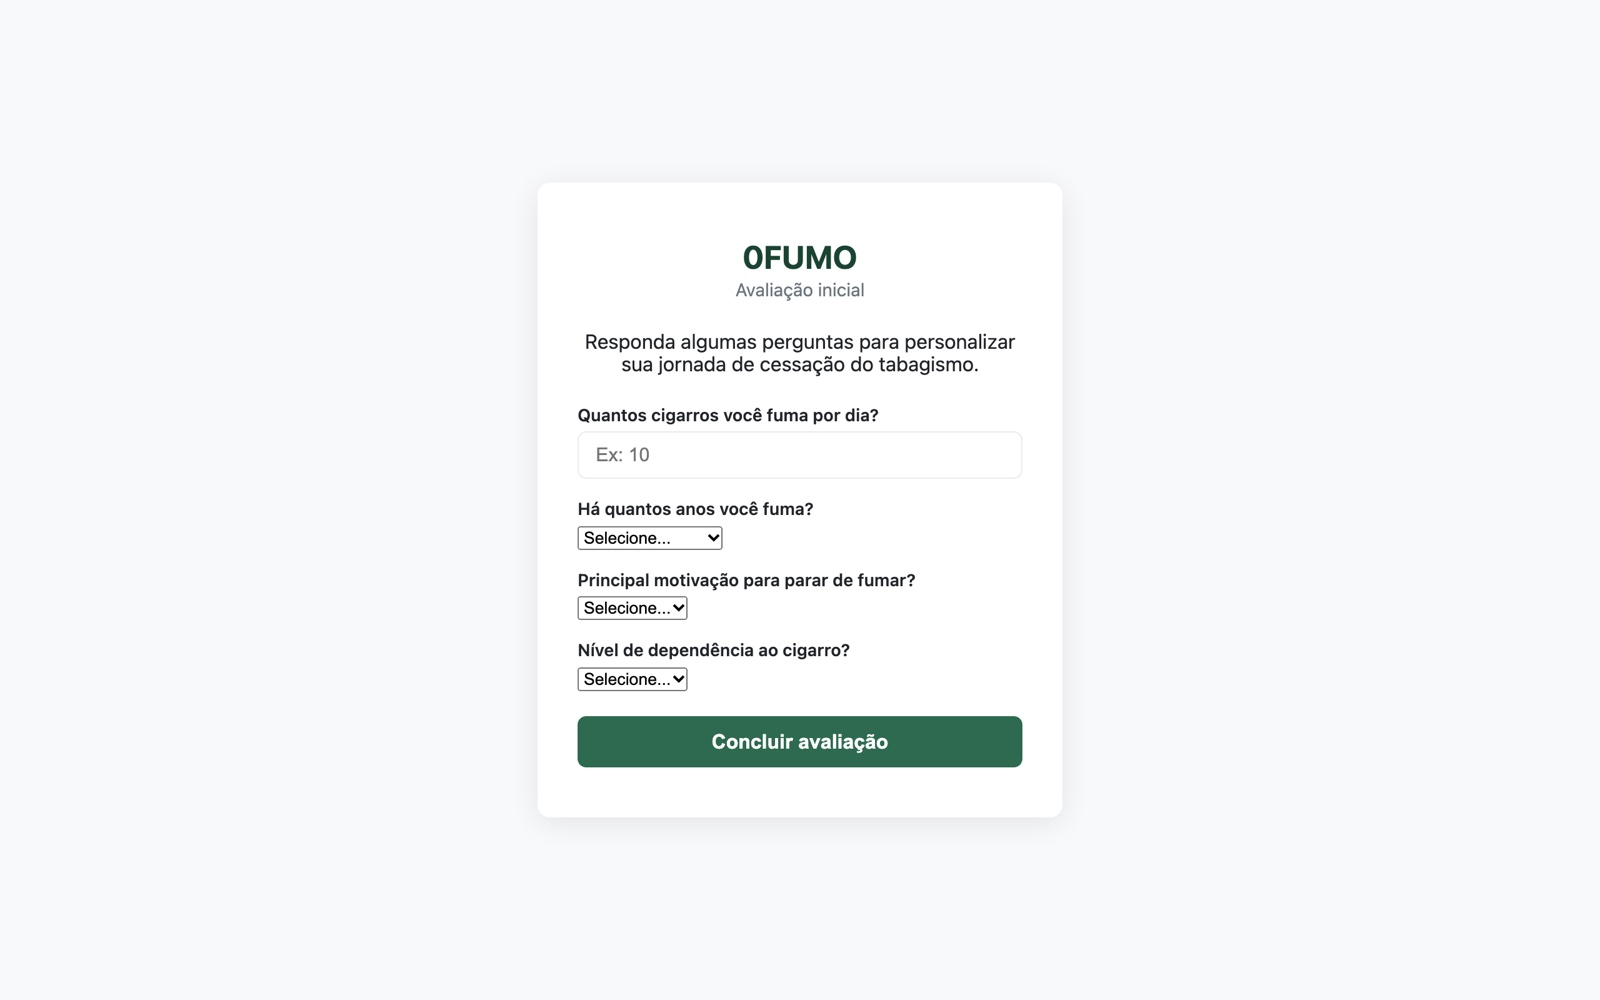
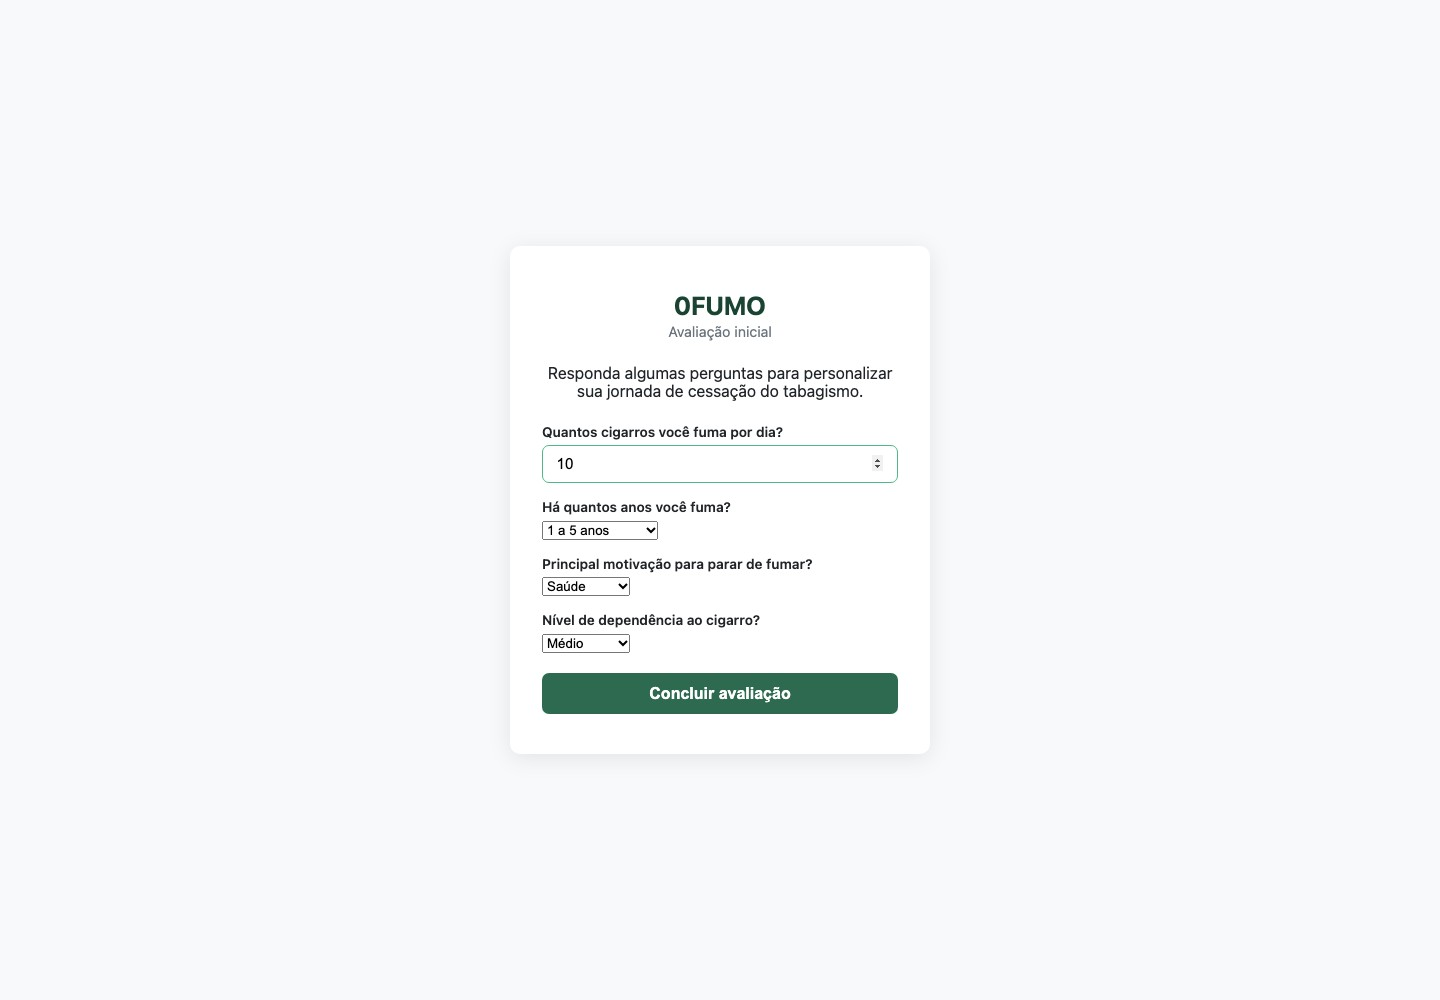
docs: standardize presentation and refresh running app screenshots

Changed region(s): [[0.3438, 0.496, 0.6562, 0.775], [0.3438, 0.248, 0.625, 0.465]]

diff --git a/README.md b/README.md
@@ -1,69 +1,102 @@
-# 0FUMO – Smoking Cessation Support Platform
+# 0FUMO — Smoking cessation support
 
-> This project is part of the **Programming Language 1** course, focused on applying requirements analysis, modeling and software development concepts to real-world problems.
+A web application for recording cravings, tracking daily progress and finding
+relaxation resources while working toward quitting smoking.
 
-## The Problem
+**Status:** Academic project · Programming Language 1, IFSP.
 
-Many people struggle to quit smoking, mainly because of physical dependence and the emotional factors involved, such as stress, anxiety and daily habits. On top of that, the lack of continuous follow-up and practical tools makes it hard to identify triggers and increases the chance of relapse. Another common problem is low adherence to existing solutions, which are often complex or hard to fit into the user's daily life.
+[![CI](https://github.com/ErickHTF/0FUMO/actions/workflows/ci.yml/badge.svg)](https://github.com/ErickHTF/0FUMO/actions/workflows/ci.yml)
 
-## Solution
+[Run locally](#run-locally) · [Development guide](DEPLOY.md) ·
+[Architecture](docs/architecture.md) · [API reference](backend/README.md#endpoints)
 
-In this context, there is a need for **tools that can help people through the process of quitting smoking, offering follow-up, motivation and support along the way.**
+![Dashboard with progress statistics and recorded events](docs/screenshots/dashboard.jpg)
 
-## System Goals
+| Initial assessment                                                  | Event diary                                                                 |
+| ------------------------------------------------------------------- | --------------------------------------------------------------------------- |
+| ![Initial smoking assessment form](docs/screenshots/assessment.jpg) | ![Event diary for cravings and resisted urges](docs/screenshots/events.jpg) |
 
-The goal of the system is to provide a digital platform that helps people quit smoking, offering progress tracking, motivation and behavioral support tools.
-The system will:
+_The interface is in Brazilian Portuguese. Screenshots use synthetic data._
 
-- Track the user's smoke-free progress
-- Show health statistics based on time without smoking
-- Log cravings to identify patterns
-- Offer relaxation resources to manage anxiety
-- Help the user decide to quit through an initial assessment
+## Overview
 
-This way, the system aims to increase the chances of successfully quitting smoking.
+0FUMO brings assessment, event logging and progress tracking into one application.
+The project applies requirements analysis, modeling and software development to
+a smoking cessation support workflow.
 
-## Expected Benefits
+- Complete an initial assessment of smoking habits and motivation.
+- Record cravings, resisted urges and smoking events with context and intensity.
+- Review progress statistics and an event history.
+- Find relaxation resources related to recorded triggers.
 
-- Higher chances of successfully quitting smoking
-- Better quality of life and health for users
-- Lower costs associated with treating tobacco-related diseases
-- Fewer relapses
+## Stack
 
-## Target Audience
+| Layer             | Technologies                                         |
+| ----------------- | ---------------------------------------------------- |
+| Frontend          | HTML, CSS, JavaScript                                |
+| Backend           | Java 21, Spring Boot 4, Spring Security, JWT         |
+| Database          | PostgreSQL, Spring Data JPA                          |
+| Local environment | Docker Compose, Nginx                                |
+| Verification      | JUnit, Spring Boot integration tests, GitHub Actions |
 
-- People who want to quit smoking
-- Healthcare professionals looking for support tools
+## Run locally
 
-## Screenshots
-
-| Dashboard | Initial assessment |
-|---|---|
-| ![Dashboard with progress stats](docs/screenshots/dashboard.jpg) | ![Initial assessment form](docs/screenshots/assessment.jpg) |
-
-<details>
-<summary>Event diary (log cravings, resistances and relapses)</summary>
-
-![Event diary with history](docs/screenshots/events.jpg)
-</details>
-
-## Repository Structure
-
-| Folder | Contents |
-|---|---|
-| [`backend/`](backend) | REST API in Spring Boot 4 (Java 21, JWT, PostgreSQL) |
-| [`frontend/`](frontend) | Web interface in plain HTML/CSS/JS |
-| [`docs/`](docs) | Requirements, use cases, analysis models, test script, guides and project management (Word, Excel and Astah files, in Portuguese) |
-
-## Getting Started
-
-With Docker, this brings up the database, API and frontend at once:
+Install **Git** and **Docker with Docker Compose**.
 
 ```bash
+git clone https://github.com/ErickHTF/0FUMO.git
+cd 0FUMO
 docker compose --profile app up -d --build
 ```
 
-- Frontend: http://localhost:3000
-- API: http://localhost:8080/api
+Open [localhost:3000](http://localhost:3000), create an account, and complete the
+initial assessment. The API runs at [localhost:8080/api](http://localhost:8080/api).
 
-For development, start only the database and run the API and frontend locally. The step-by-step is in the [Deployment Guide](DEPLOY.md).
+For running Java and the frontend outside containers, follow the
+[development guide](DEPLOY.md).
+
+## Verification
+
+With **Java 21** installed, start the local database and run the backend tests:
+
+```bash
+docker compose up -d
+cd backend
+./mvnw test
+```
+
+Integration tests exercise registration, assessment, progress tracking, event
+logging and resource suggestions. They use the local PostgreSQL database;
+run them against a development database.
+
+## Architecture
+
+```mermaid
+flowchart LR
+    Browser[HTML / CSS / JavaScript] -->|HTTP + JWT| API[Spring Boot API]
+    API -->|JPA| DB[(PostgreSQL)]
+```
+
+The browser calls the API with a bearer token. Spring Security protects user
+routes, and assessment completion gates progress, events and relaxation
+resources. Controllers delegate to services and repositories.
+
+See the [architecture guide](docs/architecture.md) for the source layout and
+[academic documentation](docs/README.md) for requirements and models.
+
+## Documentation
+
+| Guide                                         | Contents                                            |
+| --------------------------------------------- | --------------------------------------------------- |
+| [Development and local deployment](DEPLOY.md) | Prerequisites, startup, ports and shutdown          |
+| [Backend reference](backend/README.md)        | API routes, authentication, errors and tests        |
+| [Frontend guide](frontend/README.md)          | Browser interface and local serving                 |
+| [Architecture](docs/architecture.md)          | Repository layout and design diagrams               |
+| [Academic documentation](docs/README.md)      | Requirements, analysis, testing and project records |
+
+## Project context
+
+Developed for the Programming Language 1 course at IFSP. Course documents and
+the interface are in Portuguese; this README provides an English project overview.
+
+No license is currently included in this repository.

diff --git a/docs/architecture.md b/docs/architecture.md
@@ -1,0 +1,24 @@
+# Architecture
+
+[← Back to README](../README.md)
+
+## Source layout
+
+| Folder                          | Responsibility                                                       |
+| ------------------------------- | -------------------------------------------------------------------- |
+| [Backend](../backend/)          | Spring Boot REST API, authentication, business rules and persistence |
+| [Frontend](../frontend/)        | HTML pages, shared CSS and a JavaScript API client                   |
+| [Academic documents](README.md) | Requirements, analysis, tests and course records                     |
+
+The backend groups controllers, DTOs, services, entities, repositories, security
+and exception handling under `br.edu.ifsp.zerofumo`.
+
+The frontend stores the session in browser local storage. Its shared API client
+adds the JWT bearer token to requests. After registration, users complete an
+assessment before opening the protected tracking features.
+
+## Design diagrams
+
+The [PlantUML source diagrams](../backend/diagrams/) cover the architecture,
+progress monitoring, event registration and relaxation resource suggestions.
+The academic analysis models are linked from the [documentation index](README.md).

diff --git a/docs/README.md b/docs/README.md
@@ -1,0 +1,18 @@
+# Academic documentation
+
+[← Back to README](../README.md)
+
+The original course documents are preserved in Portuguese. Word, Excel and
+Astah files need a compatible viewer.
+
+| Area                | Documents                                                                   |
+| ------------------- | --------------------------------------------------------------------------- |
+| Requirements        | [Vision and use cases](1.Requisitos/)                                       |
+| Analysis and design | [Analysis models](2.Analise%20e%20Design/)                                  |
+| Testing             | [Test script](4.Teste/)                                                     |
+| Deployment          | [Deployment and user guides](5.Implantacao/)                                |
+| Project management  | [Planning, checklists and meeting records](6.Gerenciamento%20de%20Projeto/) |
+| Architecture        | [Source layout and PlantUML diagrams](architecture.md)                      |
+
+The Markdown [local deployment guide](../DEPLOY.md) describes how to run the
+current repository. Screenshots are in [screenshots/](screenshots/).
